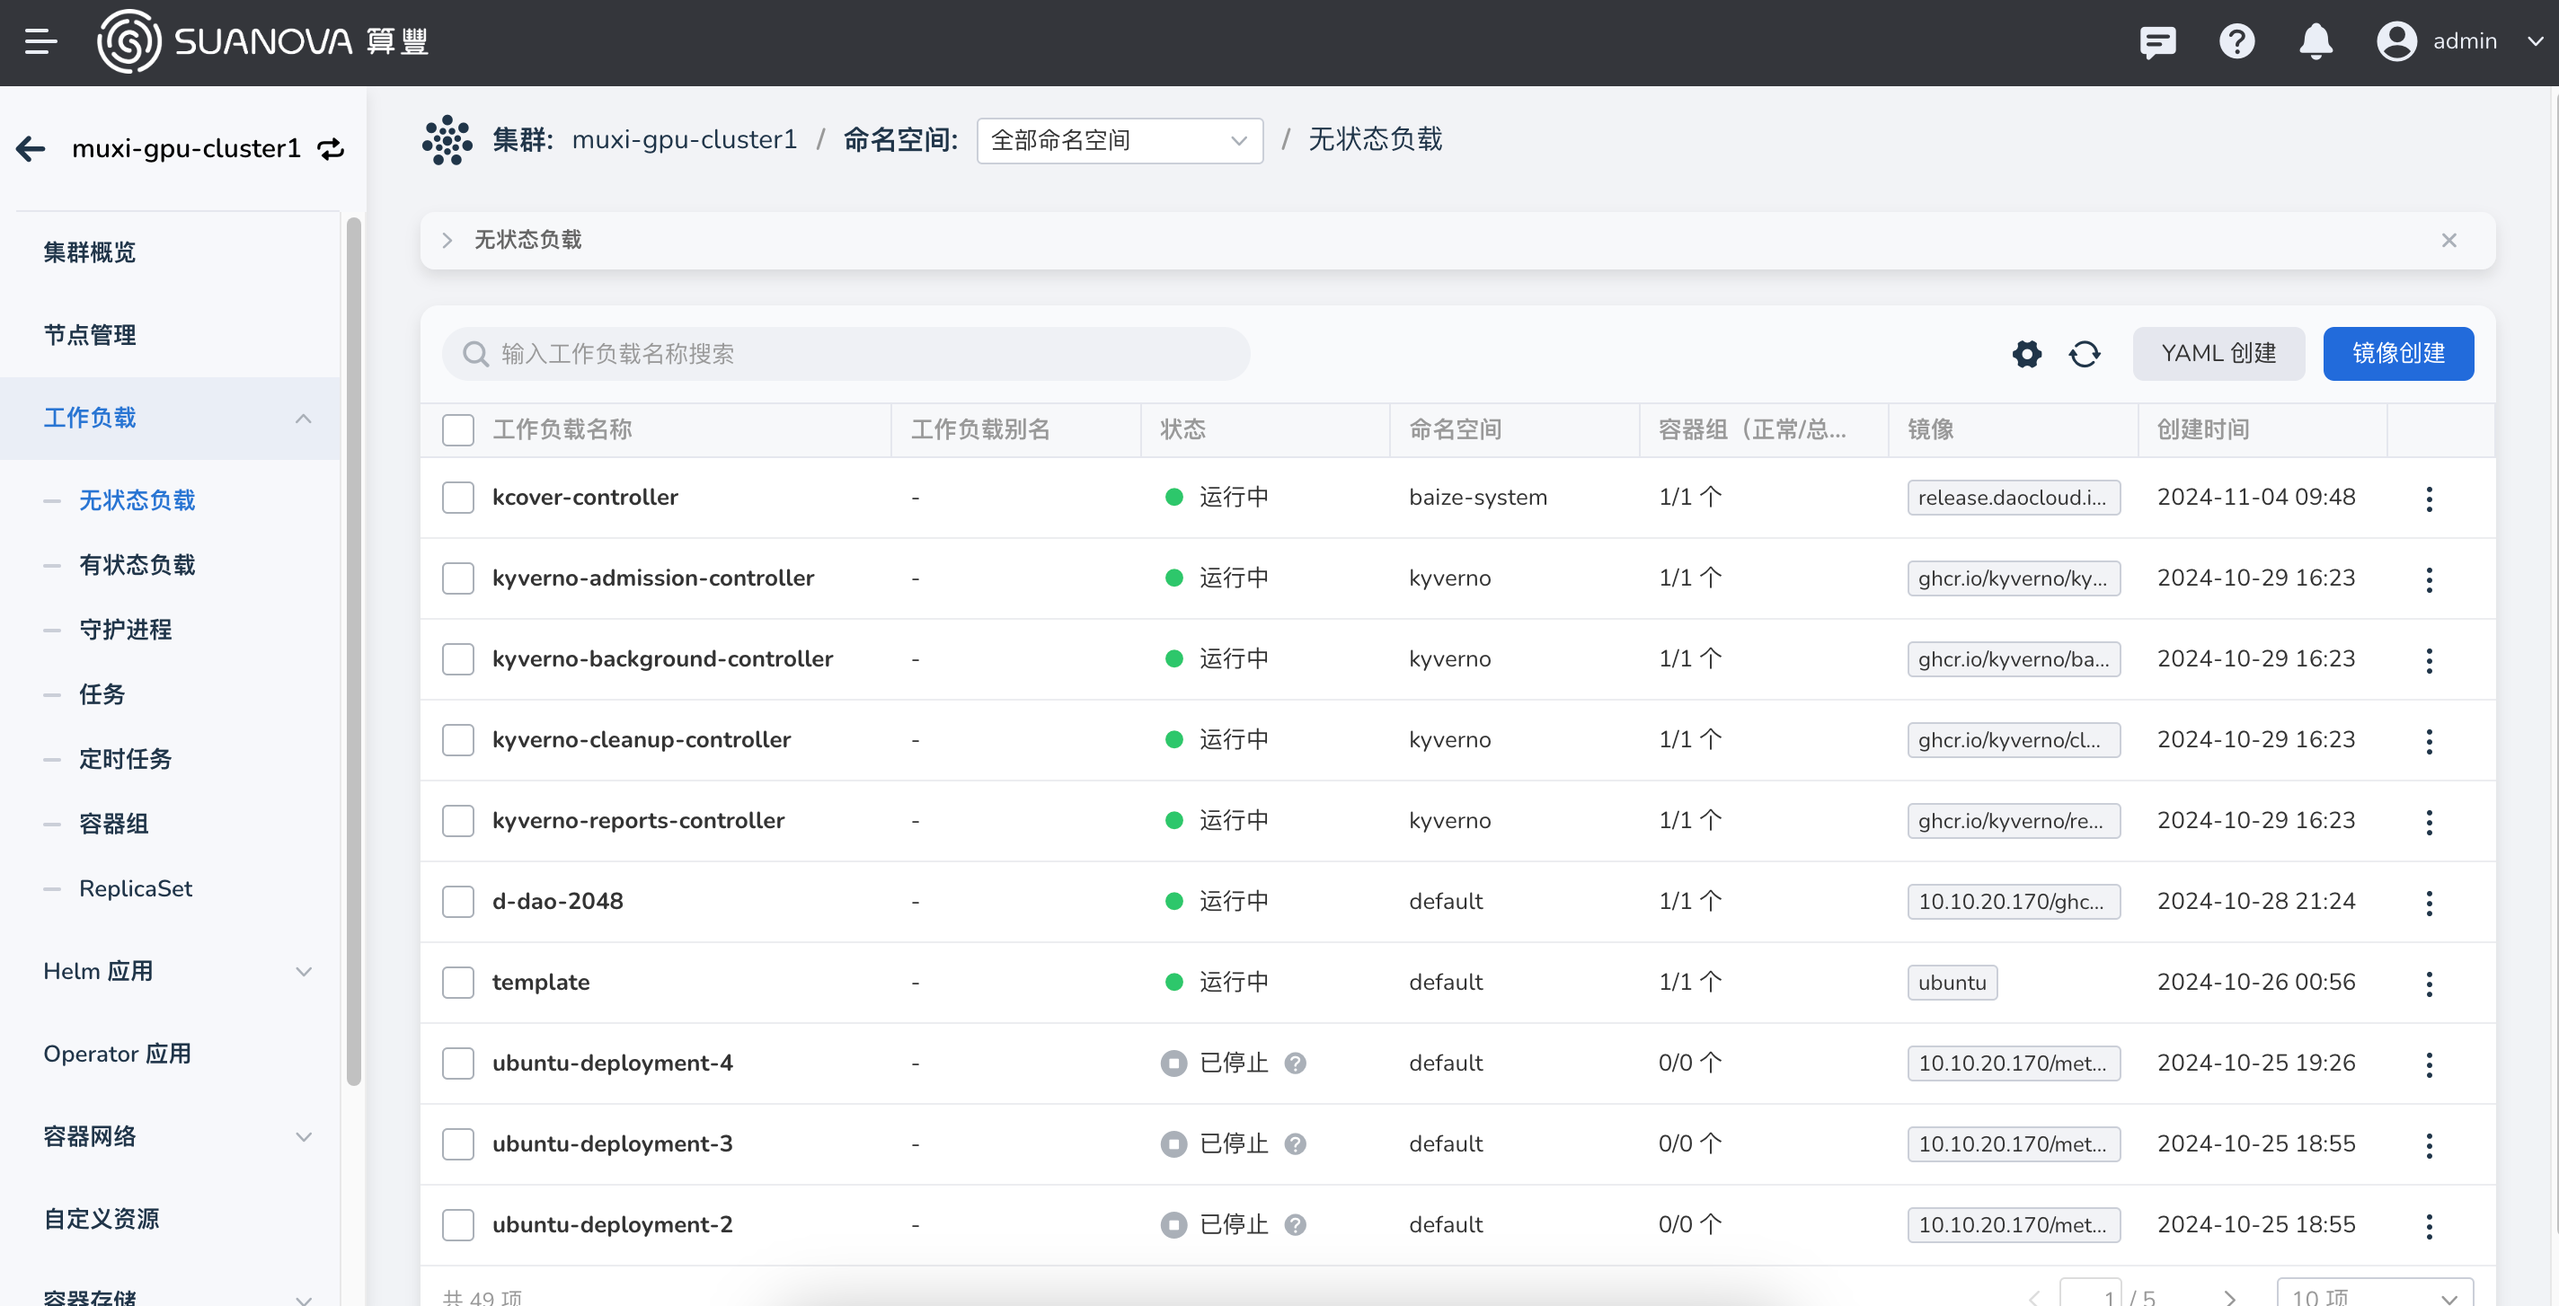
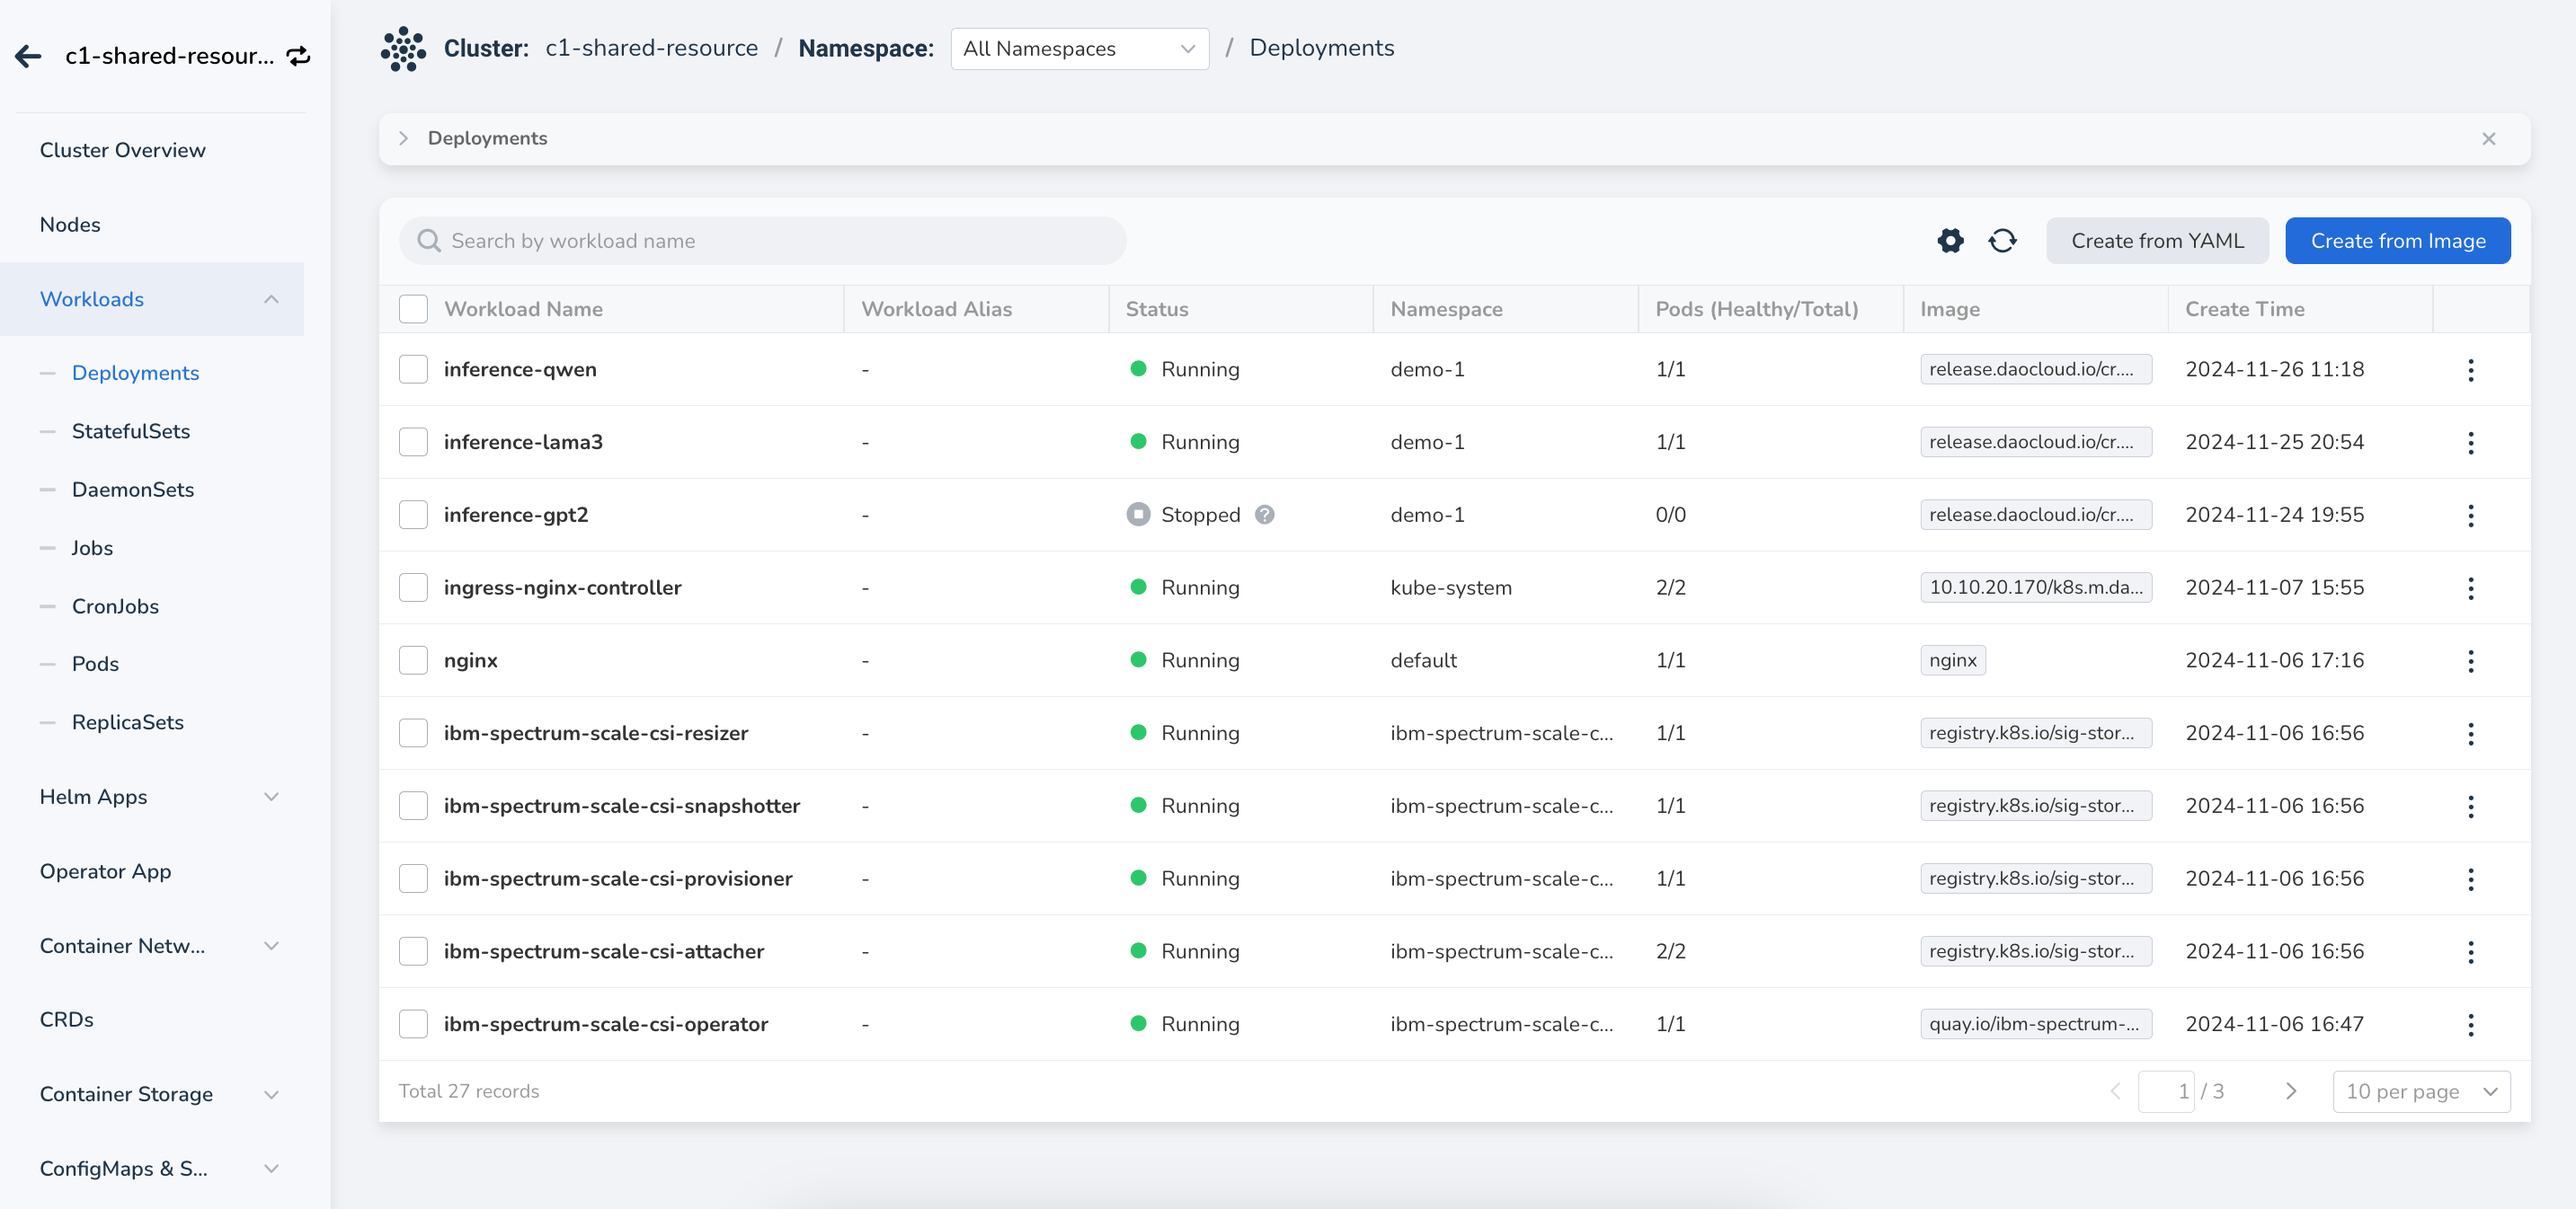
[en] Add images to share/workload.md

diff --git a/docs/en/end-user/share/workload.md b/docs/en/end-user/share/workload.md
@@ -1,4 +1,4 @@
-# Creating AI Workloads Using GPU Resources
+# Creating AI Workloads Using GPUs
 
 After the administrator allocates resource quotas for the workspace, users can create AI workloads to utilize GPU computing resources.
 
@@ -13,9 +13,10 @@ After the administrator allocates resource quotas for the workspace, users can c
 ## Steps to Create AI Workloads
 
 1. Log into the AI platform as a user.
-2. Navigate to **Container Management**, select a namespace, click **Workloads** -> **Deployments** , and then click the **Create Image** button on the right.
+2. Navigate to **Container Management**, select a cluster and namespace,
+   click **Workloads** -> **Deployments** , and then click the **Create Image** button on the right.
 
-
+    ![button](../images/workload01.png)
 
 3. After configuring various parameters, click **OK**.
 
@@ -23,25 +24,25 @@ After the administrator allocates resource quotas for the workspace, users can c
 
         Select your namespace.
 
-       
+        ![basic](../images/workload02.png)
 
     === "Container Configuration"
 
         Set the image, configure CPU, memory, GPU, and other resources, and set the startup command.
 
-       
+        ![container](../images/workload03.png)
 
     === "Other"
 
-        Service configuration and advanced configuration can use the default settings.
+        You can use default for service settings and advanced settings.
 
 4. You will be automatically redirected to the stateless workload list; click the workload name.
 
-   
+    ![click name](../images/workload04.png)
 
 5. Enter the detail page where you can see the GPU quota.
 
-   
+    ![check gpu](../images/workload05.png)
 
 6. You can also access the console and run the `nvidia-smi` command to view GPU resources.
 

diff --git a/docs/end-user/share/workload.md b/docs/end-user/share/workload.md
@@ -13,7 +13,7 @@
 ## 创建 AI 负载步骤
 
 1. 以用户身份登录 AI 算力平台
-1. 导航至 **容器管理** ，选择一个命名空间，点击 **工作负载** -> **无状态负载** ，
+1. 导航至 **容器管理** ，选择一个集群和命名空间，点击 **工作负载** -> **无状态负载** ，
    点击右侧的 **镜像创建** 按钮
 
     ![button](../images/workload01.png)
